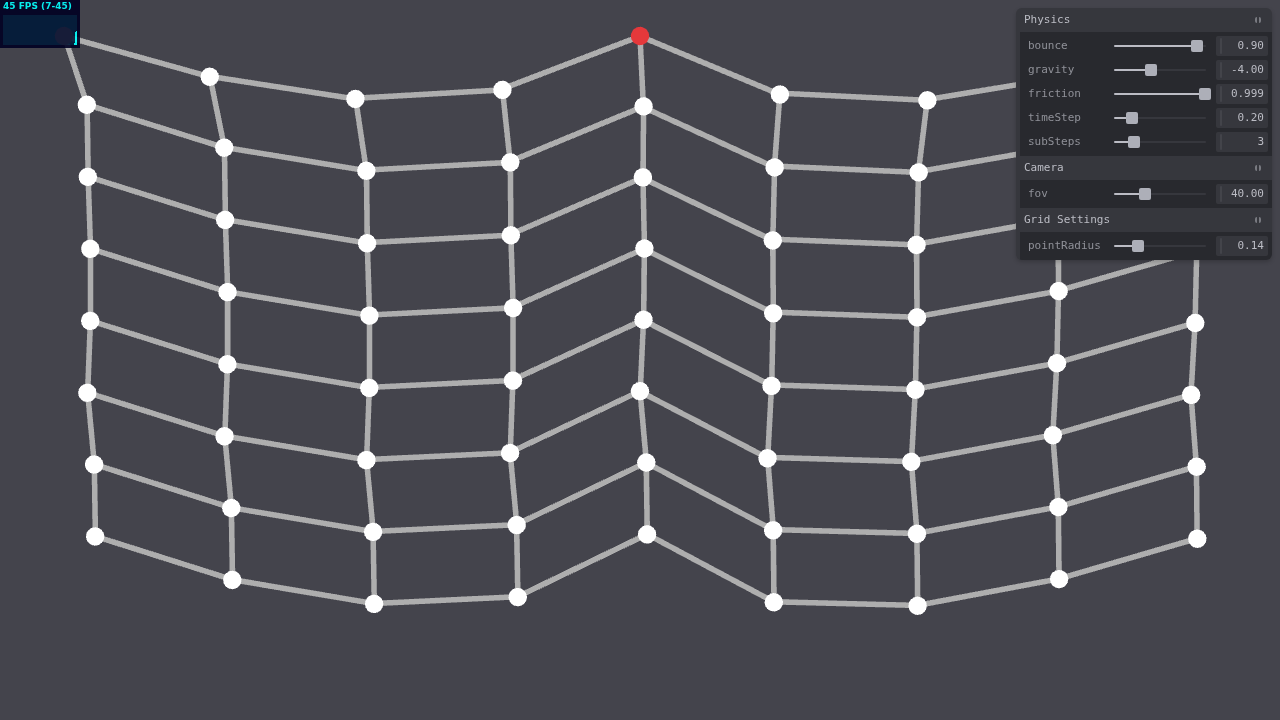
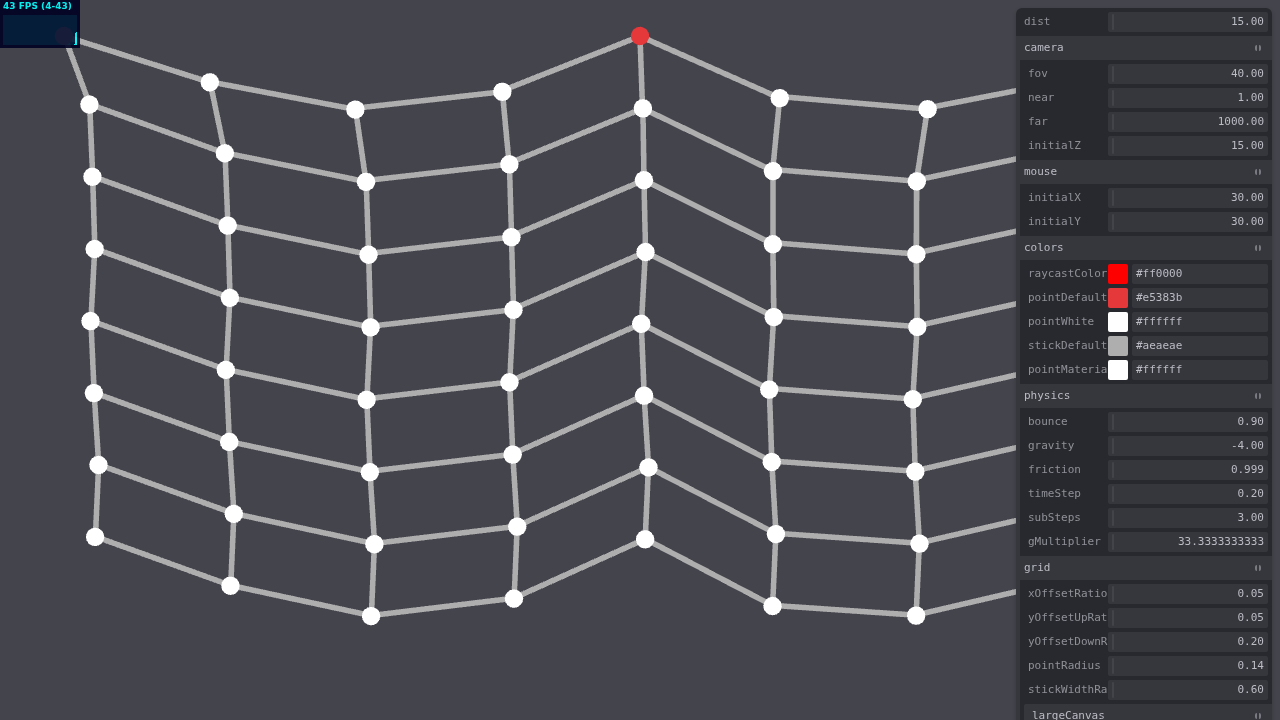
Modernize dependencies to use CDN and implement configurable UI
- Updated `index.html` to use `importmap` for Three.js (v0.182.0) and Tweakpane.
- Removed Webpack `require` calls and switched to native ES modules.
- Extracted magic numbers into a global `CONFIG` object in `src/config.js`.
- Implemented `UI` class in `src/UI.js` to procedurally generate Tweakpane controls based on `CONFIG`.
- Updated `src/instance` scripts to use `CONFIG` values.
- Updated `README.md` with instructions for CDN usage.
- Refactored `InstanceStick.js` to remove magic number for rotation offset.
- Formatted `index.html` as requested.

diff --git a/src/UI.js b/src/UI.js
@@ -4,22 +4,28 @@ export class UI {
   constructor(config) {
     this.config = config;
     this.pane = new Pane();
-    this.build();
+    this.build(this.pane, this.config);
   }
 
-  build() {
-    const physicsFolder = this.pane.addFolder({ title: 'Physics' });
-    physicsFolder.addBinding(this.config.physics, 'bounce', { min: 0, max: 1 });
-    physicsFolder.addBinding(this.config.physics, 'gravity', { min: -20, max: 20 });
-    physicsFolder.addBinding(this.config.physics, 'friction', { min: 0.9, max: 1 });
-    physicsFolder.addBinding(this.config.physics, 'timeStep', { min: 0.01, max: 1 });
-    physicsFolder.addBinding(this.config.physics, 'subSteps', { min: 1, max: 10, step: 1 });
+  build(parent, obj) {
+    for (const key in obj) {
+      if (Object.prototype.hasOwnProperty.call(obj, key)) {
+        const value = obj[key];
 
-    const cameraFolder = this.pane.addFolder({ title: 'Camera' });
-    cameraFolder.addBinding(this.config.camera, 'fov', { min: 10, max: 100 });
+        // Skip arrays as they don't map cleanly to simple controls
+        if (Array.isArray(value)) {
+          continue;
+        }
 
-    // Add more bindings as needed
-    const gridFolder = this.pane.addFolder({ title: 'Grid Settings' });
-    gridFolder.addBinding(this.config.grid, 'pointRadius', { min: 0.01, max: 0.5 });
+        if (typeof value === 'object' && value !== null) {
+          const folder = parent.addFolder({ title: key });
+          this.build(folder, value);
+        } else {
+          // Add binding for primitive values
+          // Tweakpane auto-detects colors if the string matches hex format
+          parent.addBinding(obj, key);
+        }
+      }
+    }
   }
 }

diff --git a/src/config.js b/src/config.js
@@ -11,11 +11,11 @@ export const CONFIG = {
     initialY: 30
   },
   colors: {
-    raycastColor: 0xff0000,
-    pointDefault: 0xe5383b, // From point.js
-    pointWhite: 0xffffff,   // From point.js
-    stickDefault: 0xAEAEAE, // From stick.js
-    pointMaterial: 0xffffff // From InstancePoint.js
+    raycastColor: '#ff0000',
+    pointDefault: '#e5383b', // From point.js
+    pointWhite: '#ffffff',   // From point.js
+    stickDefault: '#aeaeae', // From stick.js
+    pointMaterial: '#ffffff' // From InstancePoint.js
   },
   physics: {
     bounce: 0.9,
@@ -50,6 +50,7 @@ export const CONFIG = {
     pointGeometryRadius: 16,
     stickZOffset: -0.01,
     stickScaleX: 1,
-    stickScaleZ: 1
+    stickScaleZ: 1,
+    stickRotationOffset: Math.PI / 2
   }
 };

diff --git a/src/instance/InstanceStick.js b/src/instance/InstanceStick.js
@@ -83,7 +83,7 @@ export default class InstanceStick {
         var deltaY = p1.position.y - p0.position.y;
         var deltaX = p1.position.x - p0.position.x;
 
-        return Math.atan2(deltaY, deltaX) + (90 * Math.PI/180);
+        return Math.atan2(deltaY, deltaX) + CONFIG.instance.stickRotationOffset;
     }
 
 }
